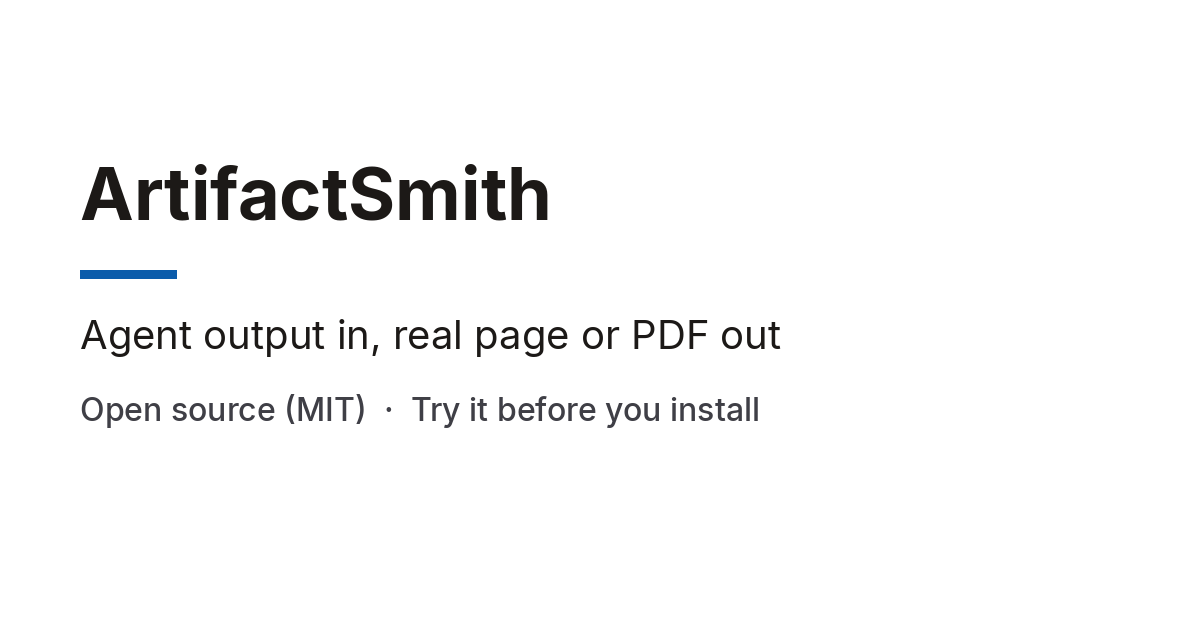
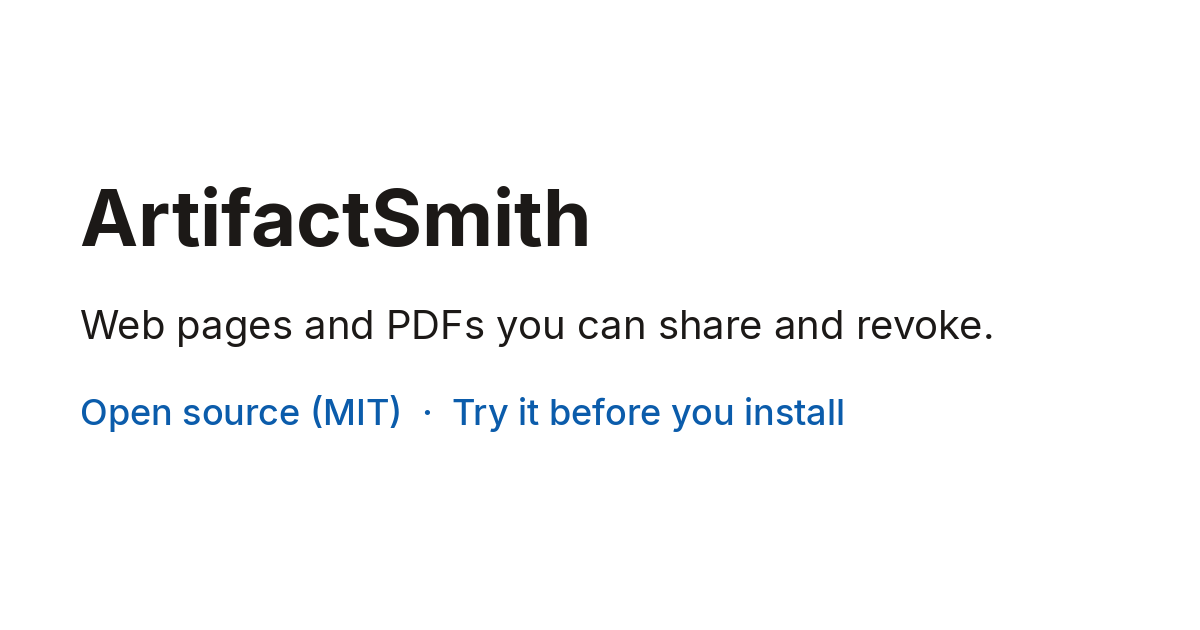
fix: use plain sentences on the hosted and home pages
The card, token page, home page, and README drop the origin story and the tagline.

diff --git a/src/artifactsmith/web/static/home.html b/src/artifactsmith/web/static/home.html
@@ -22,8 +22,8 @@
       </nav>
 
       <span class="eyebrow">Built with ArtifactSmith</span>
-      <h1>Your agents did good work. Stop getting it back as a wall of chat text.</h1>
-      <p class="hero-copy">ArtifactSmith is an open-source, self-hosted MCP server that turns agent output into web pages, PDFs, Word docs and spreadsheets. Private until you share. Revocable links. MIT.</p>
+      <h1>Turn agent output into web pages, PDFs, Word docs and spreadsheets.</h1>
+      <p class="hero-copy">Open-source, self-hosted MCP server. Private until you share. Revocable links. MIT.</p>
       <div class="actions">
         <a class="button button-light" href="https://github.com/vrijsinghani/Artifactsmith" rel="noopener noreferrer nofollow" target="_blank">View on GitHub</a>
         <a class="button button-ghost" href="https://artifactsmith.neuralami.ai/try" rel="noopener noreferrer nofollow" target="_blank">Try it before you install</a>
@@ -40,7 +40,6 @@
       </div>
       <div class="problem">
         <div class="problem-copy">
-          <p>Agents do real work, then hand it back as chat text: useful, but hard to read, hard to share, and impossible to take back.</p>
           <p>ArtifactSmith gives your own agents a real page you can look at, share, and pull back later, on your own server.</p>
         </div>
         <div class="quote-card">Meta's Muse artifacts showed a better way: the agent hands you a real page you can look at, share, and pull back later.</div>
@@ -56,7 +55,7 @@
         <article class="step">
           <span class="step-number">01</span>
           <h3>Create</h3>
-          <p>The agent calls <code>create</code> with the user's request (<code>verbatim_request</code>) and its notes (<code>source_content</code> or <code>source_files</code>). ArtifactSmith writes and renders the document. The build is private. Already have a finished page? <code>publish</code> stores it with no model call.</p>
+          <p>The agent calls <code>create</code> with the user's request (<code>verbatim_request</code>) and its notes (<code>source_content</code> or <code>source_files</code>). ArtifactSmith writes and renders the document. The build is private. For a finished page, <code>publish</code> stores it with no model call.</p>
         </article>
         <article class="step">
           <span class="step-number">02</span>

diff --git a/tests/unit/test_trial.py b/tests/unit/test_trial.py
@@ -8,6 +8,7 @@ import logging
 import re
 import time
 from html import escape, unescape
+from html.parser import HTMLParser
 from urllib.parse import parse_qs, urlparse
 
 import pytest
@@ -741,13 +742,18 @@ def test_trial_page_advertises_a_public_card(trial_http):
     assert page.status_code == 200
     text = page.text
     assert 'property="og:title" content="ArtifactSmith: open-source MCP server for agent output"' in text
-    assert "My agents kept handing me walls of chat text." in text
+    assert (
+        "Open-source MCP server (MIT) that turns agent output into web pages and PDFs "
+        "you can share and revoke. Try it before you install."
+    ) in text
+    assert "walls of chat text" not in text
+    assert "Like it?" not in text
     assert 'property="og:url" content="https://trial.example/try"' in text
     assert 'property="og:image" content="https://trial.example/static/og-trial.png"' in text
     assert 'name="twitter:card" content="summary_large_image"' in text
     assert 'name="twitter:title" content="ArtifactSmith: open-source MCP server for agent output"' in text
     assert (
-        'name="twitter:description" content="My agents kept handing me walls of chat text.  This turns it into real pages and PDFs.  MIT.  Try it before you install."'
+        'name="twitter:description" content="Open-source MCP server (MIT) that turns agent output into web pages and PDFs you can share and revoke. Try it before you install."'
         in text
     )
     assert 'name="twitter:image" content="https://trial.example/static/og-trial.png"' in text
@@ -786,6 +792,60 @@ def test_legacy_post_trial_still_mints(trial_http, svc, monkeypatch):
     assert posted.status_code == 200
     assert "Your token" in posted.text
     assert svc.db.one("SELECT verified FROM trial_signups")["verified"] == 0
+
+
+class _VisibleText(HTMLParser):
+    def __init__(self) -> None:
+        super().__init__(convert_charrefs=True)
+        self._skip = 0
+        self.parts: list[str] = []
+
+    def handle_starttag(self, tag: str, attrs: list[tuple[str, str | None]]) -> None:
+        if tag in {"script", "style"}:
+            self._skip += 1
+        if tag == "meta":
+            content = dict(attrs).get("content")
+            if isinstance(content, str) and not content.startswith(("http://", "https://")):
+                self.parts.append(content)
+
+    def handle_endtag(self, tag: str) -> None:
+        if tag in {"script", "style"} and self._skip:
+            self._skip -= 1
+
+    def handle_data(self, data: str) -> None:
+        if not self._skip:
+            self.parts.append(data)
+
+
+def _visible_copy(html: str) -> str:
+    """Page text a person reads. URLs and form actions are not copy."""
+    parser = _VisibleText()
+    parser.feed(html)
+    text = re.sub(r"https?://\S+", " ", " ".join(parser.parts))
+    return re.sub(r"\s+", " ", text)
+
+
+def test_visible_pages_avoid_banned_copy(trial_http, monkeypatch):
+    client, _box = trial_http
+    monkeypatch.setattr(CFG, "trial_email_verify", False)
+    try_page = client.get("/try")
+    home = client.get("/")
+    token = _csrf(client)
+    minted = client.post("/try", data={"csrf": token, "email": "copy@example.com"})
+    assert minted.status_code == 200
+    assert "Run your own copy:" in minted.text
+    pages = (try_page.text, minted.text, home.text)
+    for html in pages:
+        visible = _visible_copy(html).lower()
+        assert "walls of chat text" not in visible
+        assert "like it?" not in visible
+        assert "trial" not in visible
+        assert "free builds" not in visible
+    home_text = _visible_copy(home.text)
+    assert "Turn agent output into web pages, PDFs, Word docs and spreadsheets." in home_text
+    assert "Open-source, self-hosted MCP server. Private until you share. Revocable links. MIT." in home_text
+    assert "Agents do real work, then hand it back" not in home_text
+    assert "For a finished page, publish stores it with no model call." in home_text
 
 
 def test_home_page_links_the_repo_then_try(trial_http):

diff --git a/src/artifactsmith/web/trial_pages.py b/src/artifactsmith/web/trial_pages.py
@@ -51,8 +51,8 @@ def _cookie_kwargs() -> dict[str, Any]:
 _PAGE_TITLE = "Try ArtifactSmith before you install"
 _CARD_TITLE = "ArtifactSmith: open-source MCP server for agent output"
 _CARD_DESCRIPTION = (
-    "My agents kept handing me walls of chat text.  This turns it into real pages and PDFs.  "
-    "MIT.  Try it before you install."
+    "Open-source MCP server (MIT) that turns agent output into web pages and PDFs "
+    "you can share and revoke. Try it before you install."
 )
 
 
@@ -221,7 +221,7 @@ def _token_page(raw: str, workspace: str) -> str:
         "<p>Copy it now. It is not shown again.</p>"
         f'<p><input readonly value="{escape(raw, quote=True)}"></p>'
         f"<p class=muted>Workspace {escape(workspace)}. Builds left: {int(CFG.trial_build_limit)}.</p>"
-        f'<p>Like it?  Run your own: <a href="{REPO}">github.com/vrijsinghani/Artifactsmith</a></p>'
+        f'<p>Run your own copy: <a href="{REPO}">github.com/vrijsinghani/Artifactsmith</a></p>'
         "<p>Paste the token where the snippet says YOUR_TOKEN.</p>"
         f"<p>{_connector_line(CFG.api_url)}</p>"
         f"{_client_snippets(CFG.api_url)}"

diff --git a/CHANGELOG.md b/CHANGELOG.md
@@ -21,6 +21,7 @@ Version numbers follow [Semantic Versioning](https://semver.org/spec/v2.0.0.html
 
 ### Fixed
 
+- Hosted page, home page, and README copy uses plain sentences. The link-card description no longer tells an origin story.
 - The Claude Desktop trial snippet keeps the bearer token in `AUTH_HEADER`, so Windows Claude Desktop and Cursor do not split a space inside an mcp-remote argument. The Cursor snippet stays a URL plus headers. The token page names Claude Desktop's Add custom connector route.
 - The trial token page includes a Claude Desktop snippet that runs `mcp-remote`, and a Claude Code snippet that uses HTTP. Sign-in mail `Message-ID` uses the domain of `AM_SMTP_FROM`. Served trial pages add `noindex` even when another robots meta is already present. A trial token's tool list omits `publish`. Trial sign-ups group IPv6 clients by `/48`. My pages login stays `/64`.
 - `/trial` and `/app` send `Referrer-Policy: same-origin`. An `Origin: null` form post is accepted only when `Sec-Fetch-Site` is `same-origin`. Trial build limits count reservation rows, so deleting an artifact does not reset them. Opening a magic link does not use it up; the "Show my token" button does. Sign-in mail includes `Date` and `Message-ID`. A model call that spent tokens settles that cost, or keeps the hold when the provider omits usage. Trial page CSS cannot hide the abuse footer. The token page names the free-build count and wraps Claude Desktop, Cursor, and generic MCP snippets. Idle trial cleanup also runs hourly.

diff --git a/README.md b/README.md
@@ -8,13 +8,11 @@ Agents call it to turn their work into documents: web pages, PDFs, Word files, s
 
 It's for people who run their own agents and want artifacts like the ones in Muse on their own servers.
 
-Want to see it work before installing?  I run a copy you can point your MCP client at: https://artifactsmith.neuralami.ai/try (email for a token, capped at 20 builds, runs on my server).
+Try it before you install: https://artifactsmith.neuralami.ai/try. I run a copy you can point your MCP client at (email for a token, capped at 20 builds, runs on my server).
 
-## Why I built this
+## What it does
 
-My agents did good work and then handed it back as a wall of chat text. Useful, sure. Fun to read? Not so much.
-
-Then I saw Meta's Muse artifacts, where the agent hands you a real page you can look at, share, and pull back later. I wanted that for my own agents, on my own servers. So I vibe coded it. And here we are.
+ArtifactSmith gives agents tools to create, edit, export (PDF, Word, Excel, Markdown), share, and revoke documents. It works with any OpenAI-compatible model endpoint. Meta's Muse artifacts are a real page you can look at, share, and pull back later.
 
 ![An example artifact: a one-page decision brief with a recommendation, a status scorecard and a bar chart](docs/images/example-artifact.png)
 
